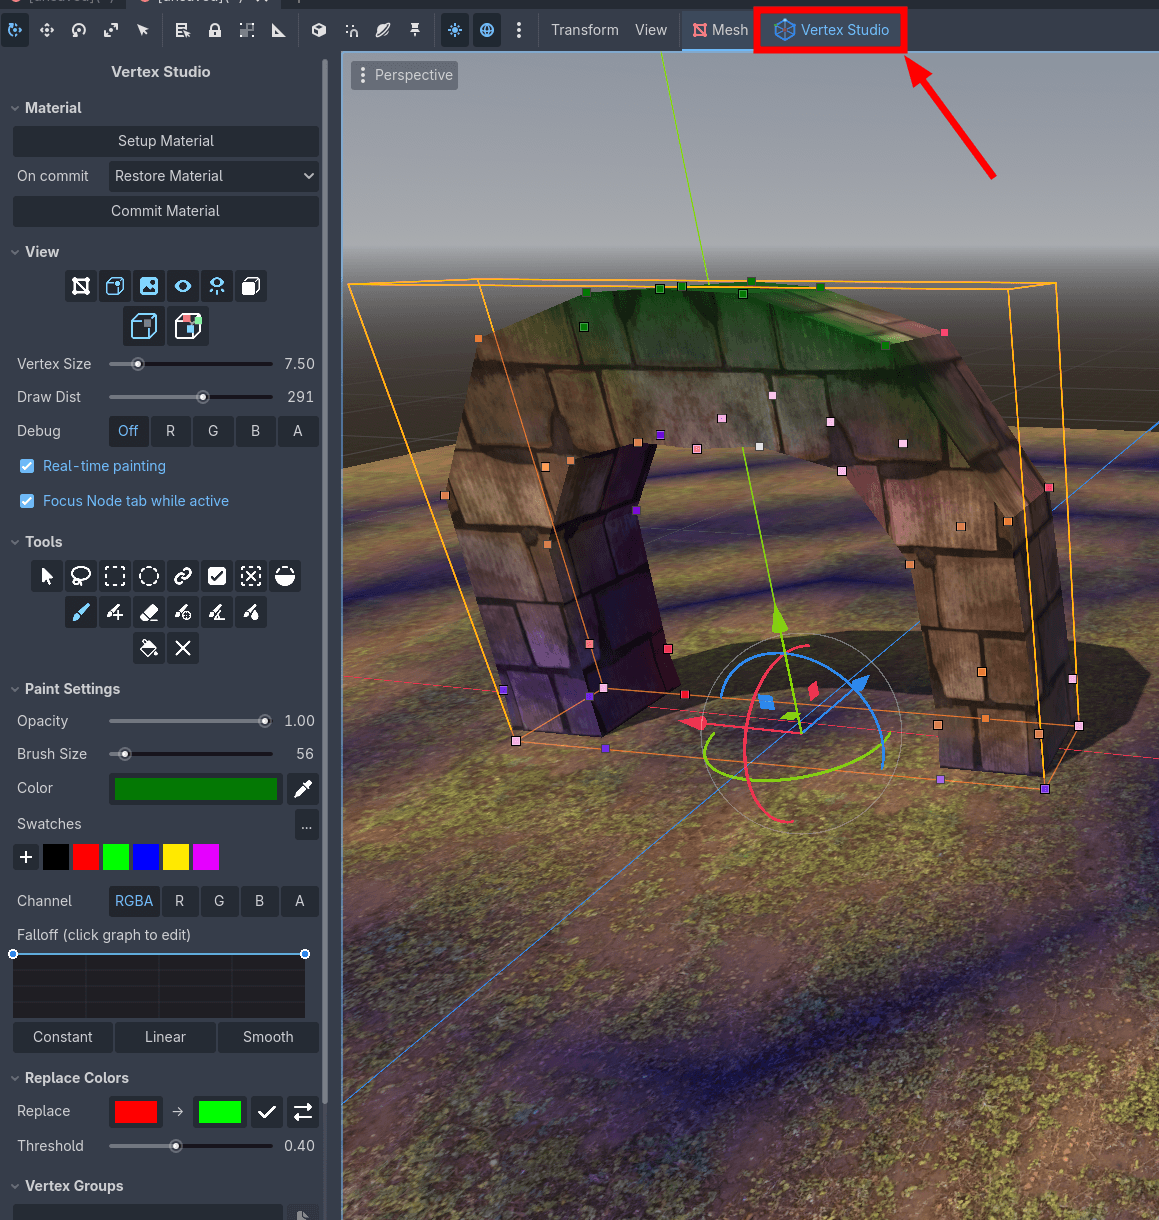
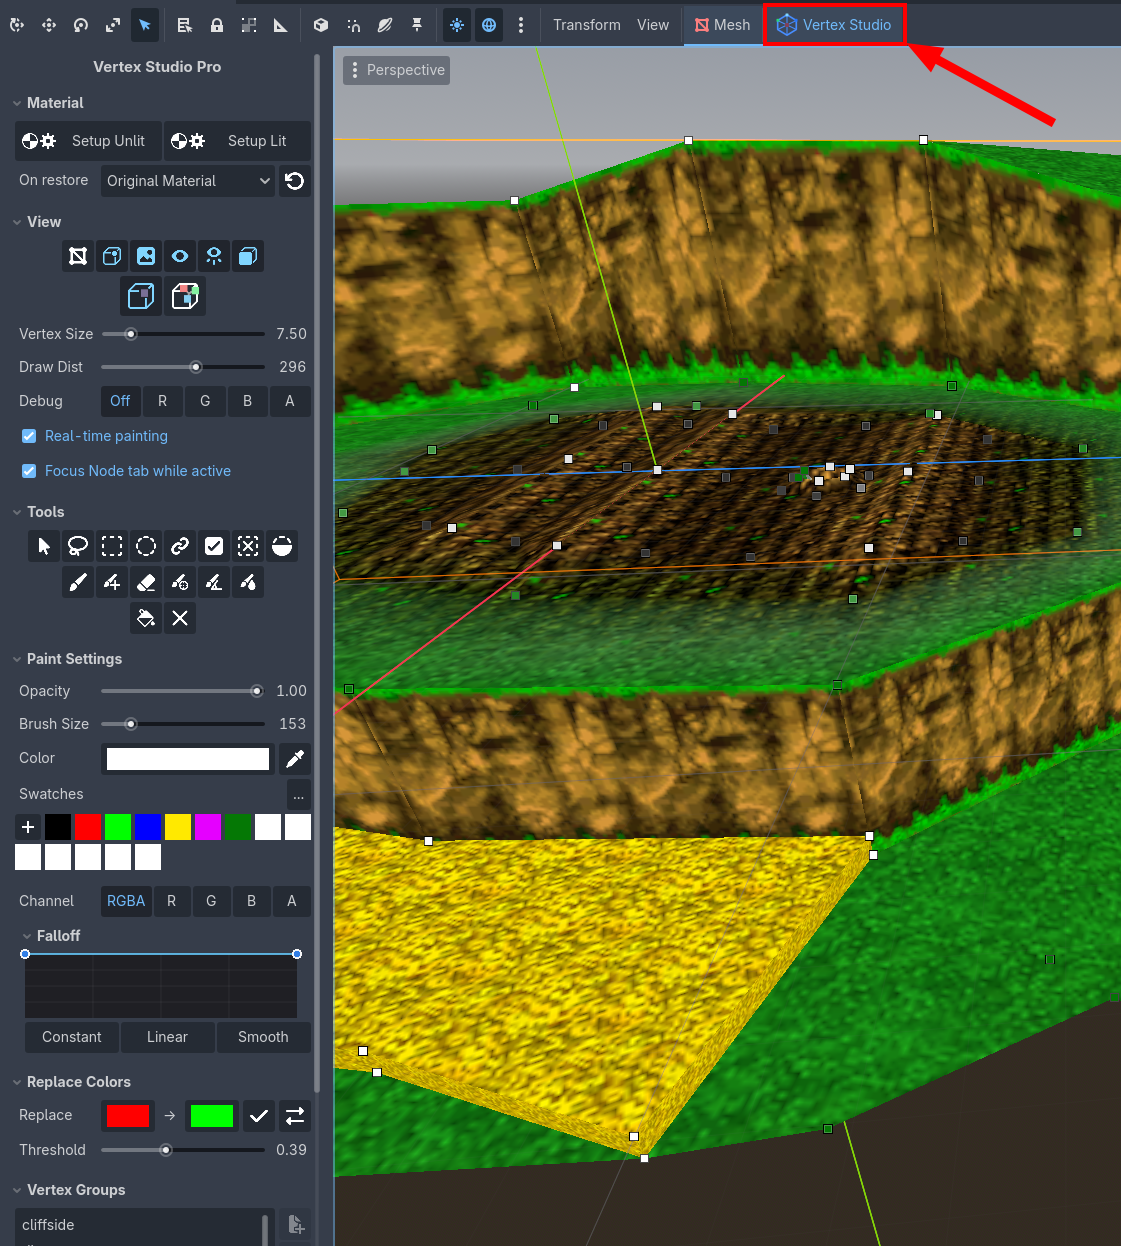
Progressing with the quickstart guide

diff --git a/conf.py b/conf.py
@@ -13,7 +13,7 @@ author = 'Alfred Reinold Baudisch'
 # -- General configuration ---------------------------------------------------
 # https://www.sphinx-doc.org/en/master/usage/configuration.html#general-configuration
 
-extensions = ['myst_parser', 'sphinx_rtd_theme']
+extensions = ['myst_parser', 'sphinx_rtd_theme', 'sphinxcontrib.images', 'sphinxcontrib.video']
 
 templates_path = ['_templates']
 exclude_patterns = ['_build', 'Thumbs.db', '.DS_Store']

diff --git a/how-to-use.rst b/how-to-use.rst
@@ -1,22 +1,100 @@
 Quickstart Guide (How to Use)
 =========================================
 
-Vertext Studio is complete solution for editing vertex colors and vertex normals of 3D meshes in Godot. It has tools for:
+Vertext Studio is complete solution for editing vertex colors and vertex normals of 3D meshes in Godot. See all the features in the :doc:`features` page.
 
-- Painting and filling vertices (brush, eraser, fill, opacity adjustment, brush falloff, color palettes, bucket fill, color replacement by threshold, RGBA channel selection).
-- Selecting vertices (lasso, rectangle and ellipse selection).
-- Changing vertex and face normals between hard and smooth.
-- Painting individual vertices or split vertices (shared vertices of hard edges).
-- Grouping vertices into vertex groups like Blender.
-- Creating and managing snapshots of vertex colors, selections and vertex smoothness topology.
+This is a how to use / quickstart guide / tutorial to get you started with Vertex Studio.
 
-This is a quickstart guide to get you started with Vertex Studio.
+!! TODO: this is the scene before and after !!
 
-Basic workflow
----------------
+Project and addon setup
+-----
+
+If you want to follow along with the tutorial, you can download the sample project here. Extract the zip file and open the project in Godot.
+
+Then, download and activate the addon in your Godot project (the sample project does not come with the addon). See the :doc:`installation` page for more details.
+
+Part 1: Material setup and basic vertex painting with the brush and the eraser
+---------------------------------------------------------------------------
+
+Let's start by painting the archway base mesh.
+
+.. video:: _static/videos/vertexstudio-tutorial01.mp4
+  :width: 100%
+
+1. Open the "Scenario" scene and click the "Archway" node in the SceneTree.
+2. Activate Vertex Studio.
+3. Setup the :doc:`Vertex Studio material <materials>` by clicking the ``Setup Unlit`` under the ``Material`` secton. We are choosing the unlit material because we do not want lighting or shadows affecting the viewport and the mesh.
+
+.. image:: _static/images/tut-setupmaterial.png
+
+.. note::	
+    What happens with the material originally assigned to the mesh? Vertex Studio will automatically restore the material once the interface is closed. You can also restore it immediately by clicking the ``Restore Material`` button (the one with the counterclockwise arrow icon).
+    
+    You can alternate between the original material and the setup materials any time by clicking the buttons as needed. This workflow is actually encouraged to visualize between the Studio and the final result.
+
+4. Select the ``Paint Vertex Colors`` (aka "Brush") tool by clicking its icon, pressing :kbd:`B`, or by opening the tools popup in the viewport with :kbd:`Ctrl+F` and clicking the Brush icon.
+
+.. image:: _static/images/tut-brushicon.png
+
+5. Select a color, reduce the opacity, and paint the inner part of the archway.
+
+.. image:: _static/images/tut-pickcolor-andopacity.png
+
+6. In the viewport, you can increase and decrease the brush size by holding :kbd:`]` and :kbd:`[` respectively. You can also cycle through colors from the palette (Swatches) by pressing :kbd:`X` (or also open the tools popup with :kbd:`Ctrl+F`, but from now on, I'm not going to repeat this information).
+
+7. If you make a mistake, you can undo normally or use the ``Eraser`` tool by clicking its icon or by pressing :kbd:`Shift+E`. The eraser is also a brush, thus opacity also affects how hard or soft the eraser is.
+
+.. image:: _static/images/tut-eraser.png
+
+Part 2: Vertex selection and bucket fill
+---------------------------------------------------------------------------
+
+.. video:: _static/videos/vertexstudio-tutorial02.mp4
+  :width: 100%
+
+I want to make the base of the archway darker. Let's select the base vertices and fill them with a darker color.
+
+1. In order to make it easier to view vertices that are on the back, disable ``Show Front Verts Only`` under ``View`` (1).
+
+You can also toggle the texture with ``Show Textured`` (2) in order to make it easier to see just the vertex colors.
+
+.. image:: _static/images/tut-showfrontverts.png
+
+2. To paint only a few selected vertices without affecting unwanted vertices, you can use the ``Single Selection`` tool. Click individual vertices to select them. To **add to the selection**, you can hold :kbd:`Shift` while clicking. To **remove from the selection**, you can hold :kbd:`Alt` while clicking previously selected vertices.
+
+.. image:: _static/images/tut-singleselection.png
+
+3. You can fill the selected vertices with the ``Fill Selection`` (aka "Bucket Fill", also activated with :kbd:`G` key) (1) tool or you can paint the selected vertices with the brush (since now there's an active selection, the other vertices will be masked out). The bucket fill also uses the opacity setting, so filling repeteadly will add the color to the selection.
+
+If you want, you can first ``Erase from Selection`` (2) to clear the colors from the selected vertices, and then fill again.
+
+.. image:: _static/images/tut-fill.png
+
+.. note::	
+    When there is no active selection, the bucket fill tool is shown as ``Fill All`` and the clear tool is shown as ``Erase All``, and both affect all vertices (i.e. fill all vertices with the current color or erase color from all vertices).
+ 
+4. To clear the selection, you can click ``Deselect`` or press :kbd:`Shift+L` or click an empty space in the viewport.
+
+.. image:: _static/images/tut-deselect.png
+
+5. PRO ONLY: You can also use the ``Lasso Selection`` (activated with :kbd:`L` key), ``Rectangle Selection`` or ``Ellipse Selection`` tools to select vertices in an easier and more efficient way than the ``Single Selection`` tool. :kbd:`Shift` and :kbd:`Alt` also work to add to or remove from the selection with these tools.
+
+.. image:: _static/images/tut-lasso.png
+
+.. note::	
+    DEVELOPER NOTE: The lasso tool is one of my favorite tools in the addon, even though it's not the main selling point (which is "painting vertices"), but it's one of the most useful tools when dealing with complex scenes and models (alongside ``Vertex Groups``), since it saves so much time by allowing for complex and weirdly shaped selections.
+
+- Paint a simple rock
+- Paint base instance vs world instance
+- Show banjo kazooie scene before and after
+- Paint banjo scene vertex by vertex and start introducing selection tools, select linked, vertex groups, snapshopts, and custom material, paint alpha
 
 Material setup
 --------------
+
+Changing view modes
+--------------------
 
 Painting vertices
 -----------------
@@ -27,7 +105,7 @@ Creating and managing color palettes
 Making selections
 -----------------
 
-Changing normals
+Painting and changing normals
 ----------------
 
 Grouping vertices

diff --git a/troubleshooting.rst b/troubleshooting.rst
@@ -29,17 +29,17 @@ Zoomed in, just local vertices being rendered, the interface responsiveness is f
 Vertex Colors do not appear in my model
 ---------------------------------------
 
-- If you have Vertex Studio active, make sure your mesh has the "Setup Material".
+- If you have Vertex Studio active, make sure your mesh has the "Setup Material" (either unlit or lit).
 
-.. image:: _static/images/vertex_studio_godot_troubleshooting-5.jpeg
+.. image:: _static/images/trouble-setupmaterial.png
 
 - If you are outside Vertex Studio and your model still does not show vertex colors, the mesh's material is not using the vertex color information. You can use Godot's ``StandardMaterial3D``, then check ``Vertex Color``, ``Use as Albedo``.
 
 .. image:: _static/images/vertex_studio_godot_troubleshooting-6.jpeg
 
-- If you want Vertex Studio to place the ``StandardMaterial3D`` in your mesh automatically, choose ``StandardMaterial3D`` in "Material - On Commit".
+- If you want Vertex Studio to place the ``StandardMaterial3D`` in your mesh automatically, choose ``StandardMaterial3D`` in "Material - On restore".
 
-.. image:: _static/images/vertex_studio_godot_troubleshooting-7.jpeg
+.. image:: _static/images/trouble-materialrestore.png
 ````
 When I paint, nothing happens
 ---------------------------------------
@@ -48,9 +48,9 @@ When I paint, nothing happens
 
 .. image:: _static/images/vertex_studio_godot_troubleshooting-8.jpeg
 
-- **No vertex color information in the material:** make sure the mesh's material uses the vertex color. If you are in Vertex Studio, you can also click "Setup Material" to use a material designed specially for the studio.
+- **No vertex color information in the material:** make sure the mesh's material uses the vertex color. If you are in Vertex Studio, you can also click "Setup Unlit" or "Setup Lit" to use a material designed specially for the studio.
 
-.. image:: _static/images/vertex_studio_godot_troubleshooting-5.jpeg
+.. image:: _static/images/trouble-setupmaterial.png
 
 
 - **Wrong channel:** Make sure you are painting in the RGBA channel.
@@ -90,3 +90,8 @@ The Split Shared Verts view mode is active, but vertices still show up as a sing
 Split vertices work only on hard edges. You can either make flat and hard faces with the 3D software of your choice, like Blender or you can use Vertex Studio "Paint Normals" brush and paint individual faces and vertices as hard or smooth. By painting vertices hard, they are automatically split. By painting them smooth, they are welded as a merged vertex.
 
 .. image:: _static/images/vertex_studio_godot_troubleshooting-15.jpeg
+
+The scene file with the MeshInstance3D where I painted vertex colors is too big and/or is taking too long to load
+---------------------------------------
+
+Save the scene as a binary scene (``.scn``) instead of a text scene (``.tscn``).

diff --git a/index.rst b/index.rst
@@ -6,21 +6,28 @@
 Vertex Studio Documentation
 =========================================
 
-Add your content using ``reStructuredText`` syntax. See the
-`reStructuredText <https://www.sphinx-doc.org/en/master/usage/restructuredtext/index.html>`_
-documentation for details.
+Vertext Studio is complete solution for editing vertex colors and vertex normals of 3D meshes in Godot. It has tools for:
+
+- Painting and filling vertices (brush, eraser, fill, opacity adjustment, brush falloff, color palettes, bucket fill, color replacement by threshold, RGBA channel selection).
+- Selecting vertices (lasso, rectangle and ellipse selection).
+- Changing vertex and face normals between hard and smooth.
+- Painting individual vertices or split vertices (shared vertices of hard edges).
+- Grouping vertices into vertex groups like Blender.
+- Creating and managing snapshots of vertex colors, selections and vertex smoothness topology.
 
 .. toctree::
    :hidden:
    :maxdepth: 4
    :caption: Quickstart
    
+   features
    installation
    how-to-use
 
 .. toctree::
    :hidden:
    :maxdepth: 4
-   :caption: FAQ
+   :caption: Questions and Answers
    
+   faq
    troubleshooting

diff --git a/faq.rst b/faq.rst
@@ -1,0 +1,12 @@
+FAQ
+=========================================
+
+What is the minimum version of Godot required?
+---------------------------------------
+
+Godot 4.3 or higher.
+
+Is there support undo and redo support?
+----------------------------------
+
+Yes, undo history is implemented, you can undo and redo normally in Godot.

diff --git a/installation.rst b/installation.rst
@@ -11,7 +11,7 @@ Download and extract
 .. image:: _static/images/installation-addons-folder.png
 
 .. note::	
-    Vertex Studio requires **Godot 4.3 or higher**. Compatible with Godot 4.3, 4.4, 4.5, 4.6, and 4.7.
+    Vertex Studio requires **Godot 4.3 or higher**.
 
 
 Activate the addon
@@ -27,7 +27,8 @@ Open the addon
 Now, anytime you click on a ``MeshInstance3D`` in the Scene Tree and you activate the 3D Workspace, the Vertex Studio button will be available in the toolbar.
 
 .. image:: _static/images/installation-showaddon3dscene.png
+.. image:: _static/images/installation-showaddon3dscene2.png
 
 Click the button to open Vertex Studio.
 
-.. image:: _static/images/installation-activate-addon.png
+.. thumbnail:: _static/images/installation-activate-addon.png

diff --git a/features.rst b/features.rst
@@ -1,0 +1,3 @@
+Features
+=========================================
+

diff --git a/materials.rst b/materials.rst
@@ -1,0 +1,2 @@
+Materials
+=========================================